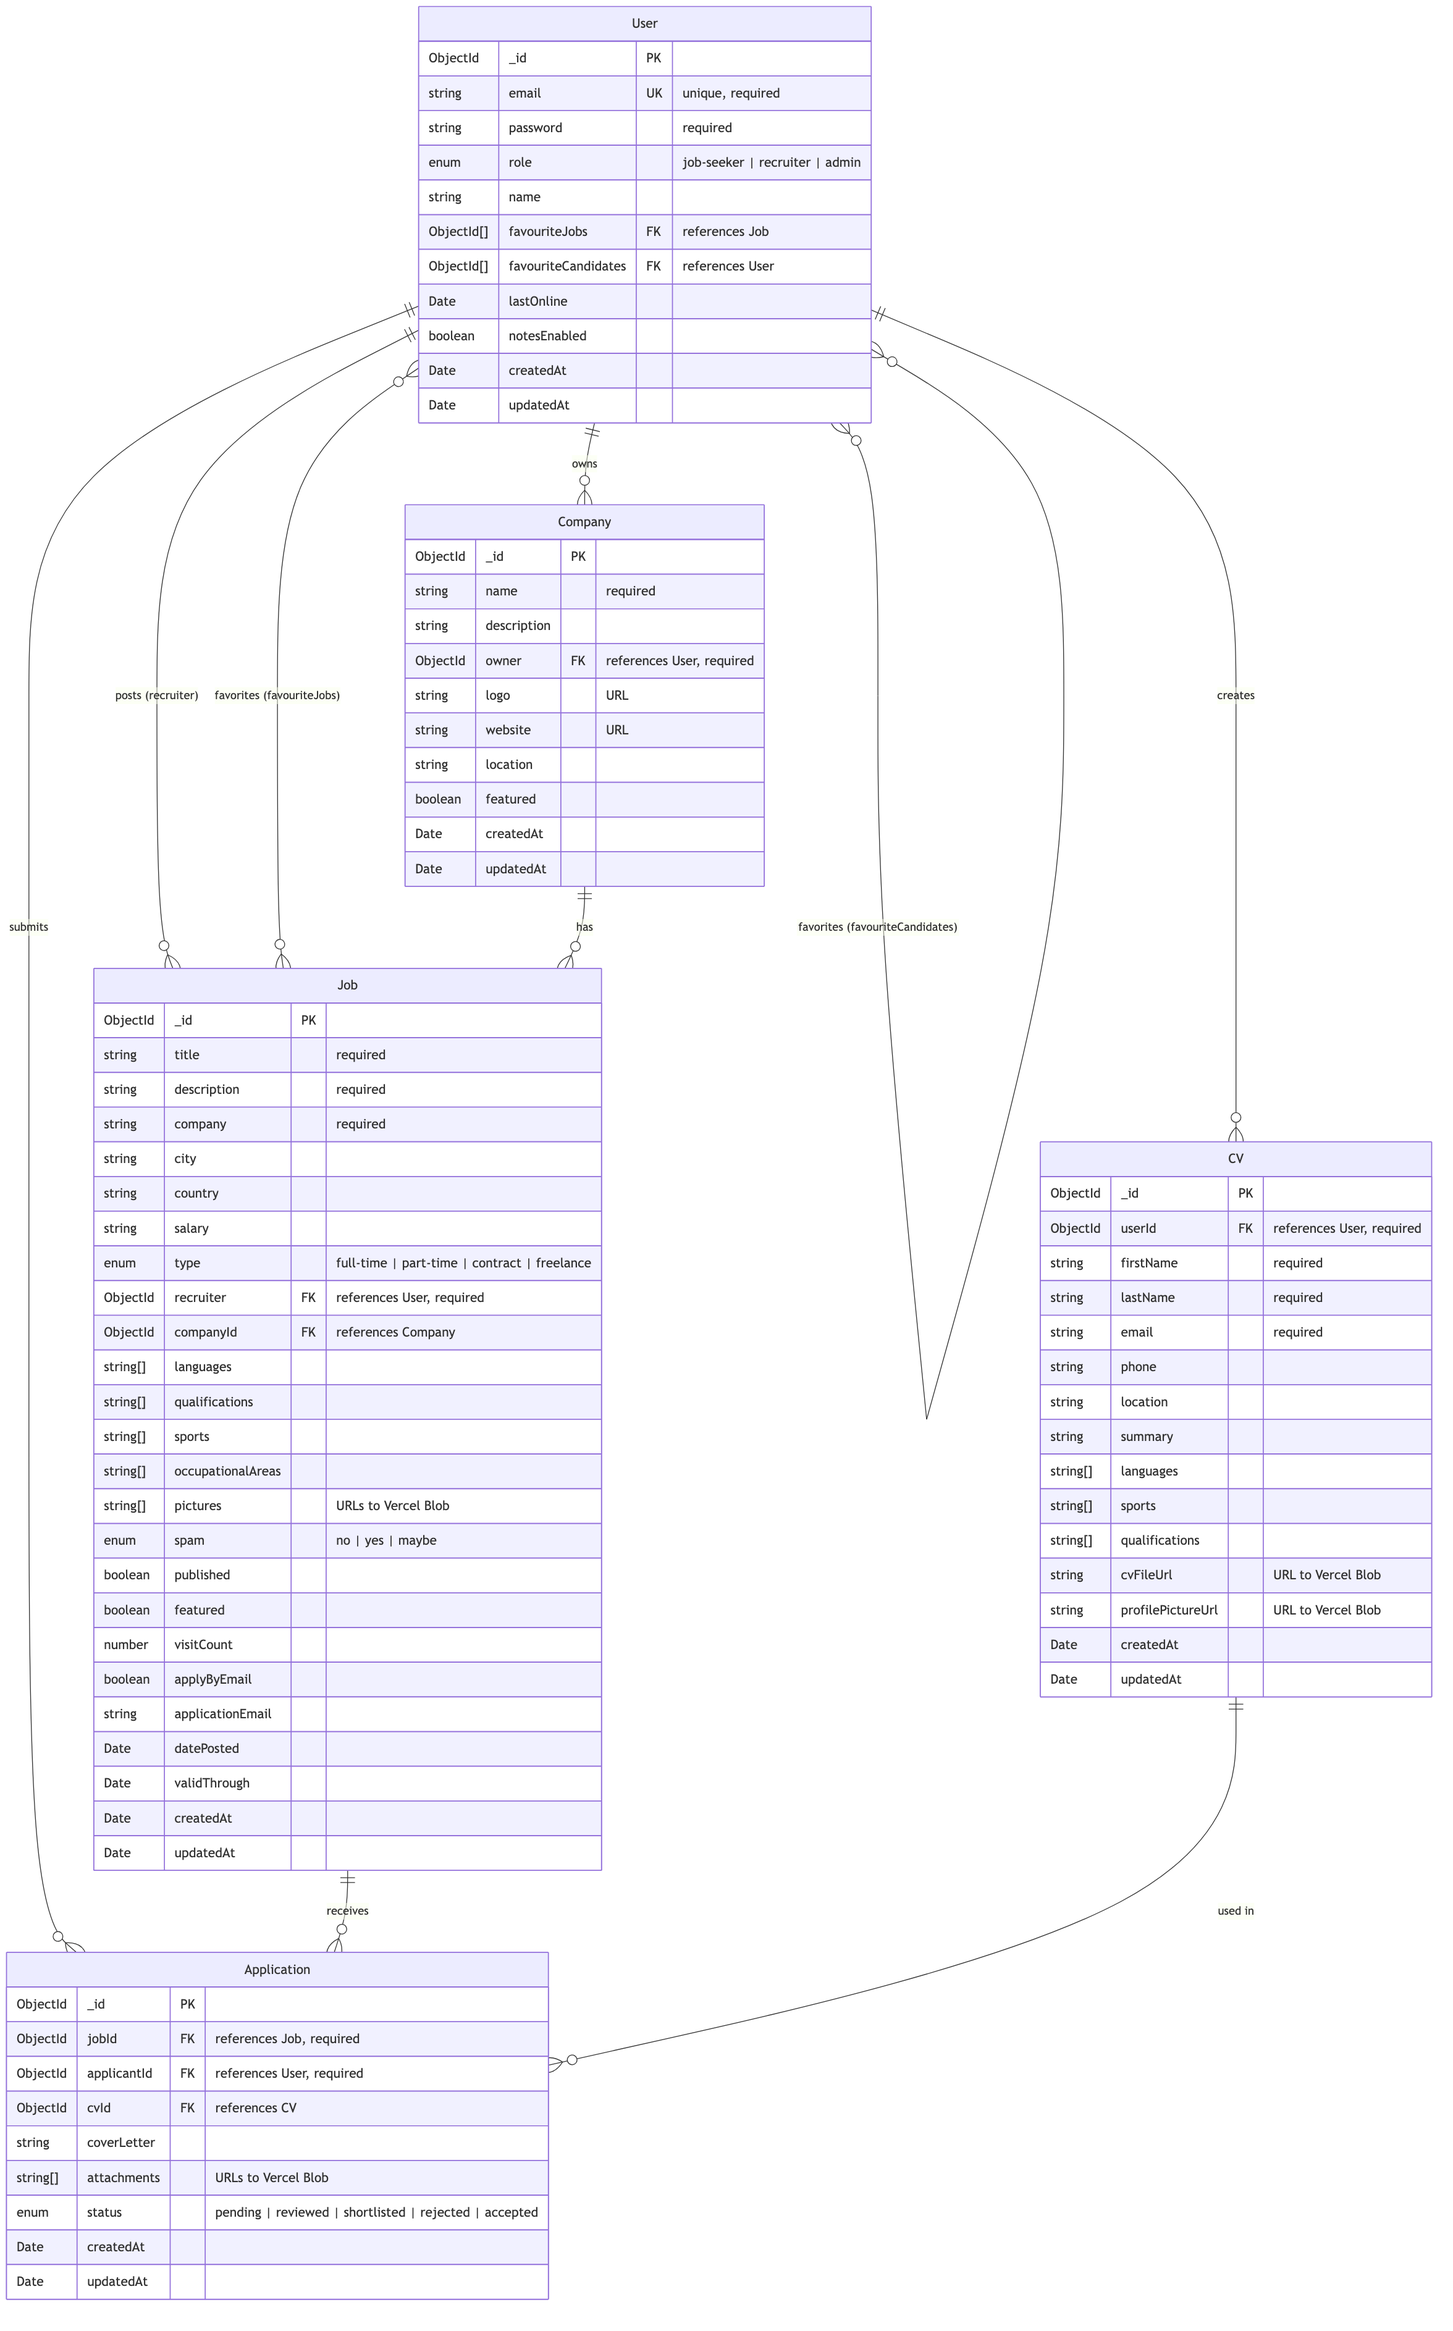
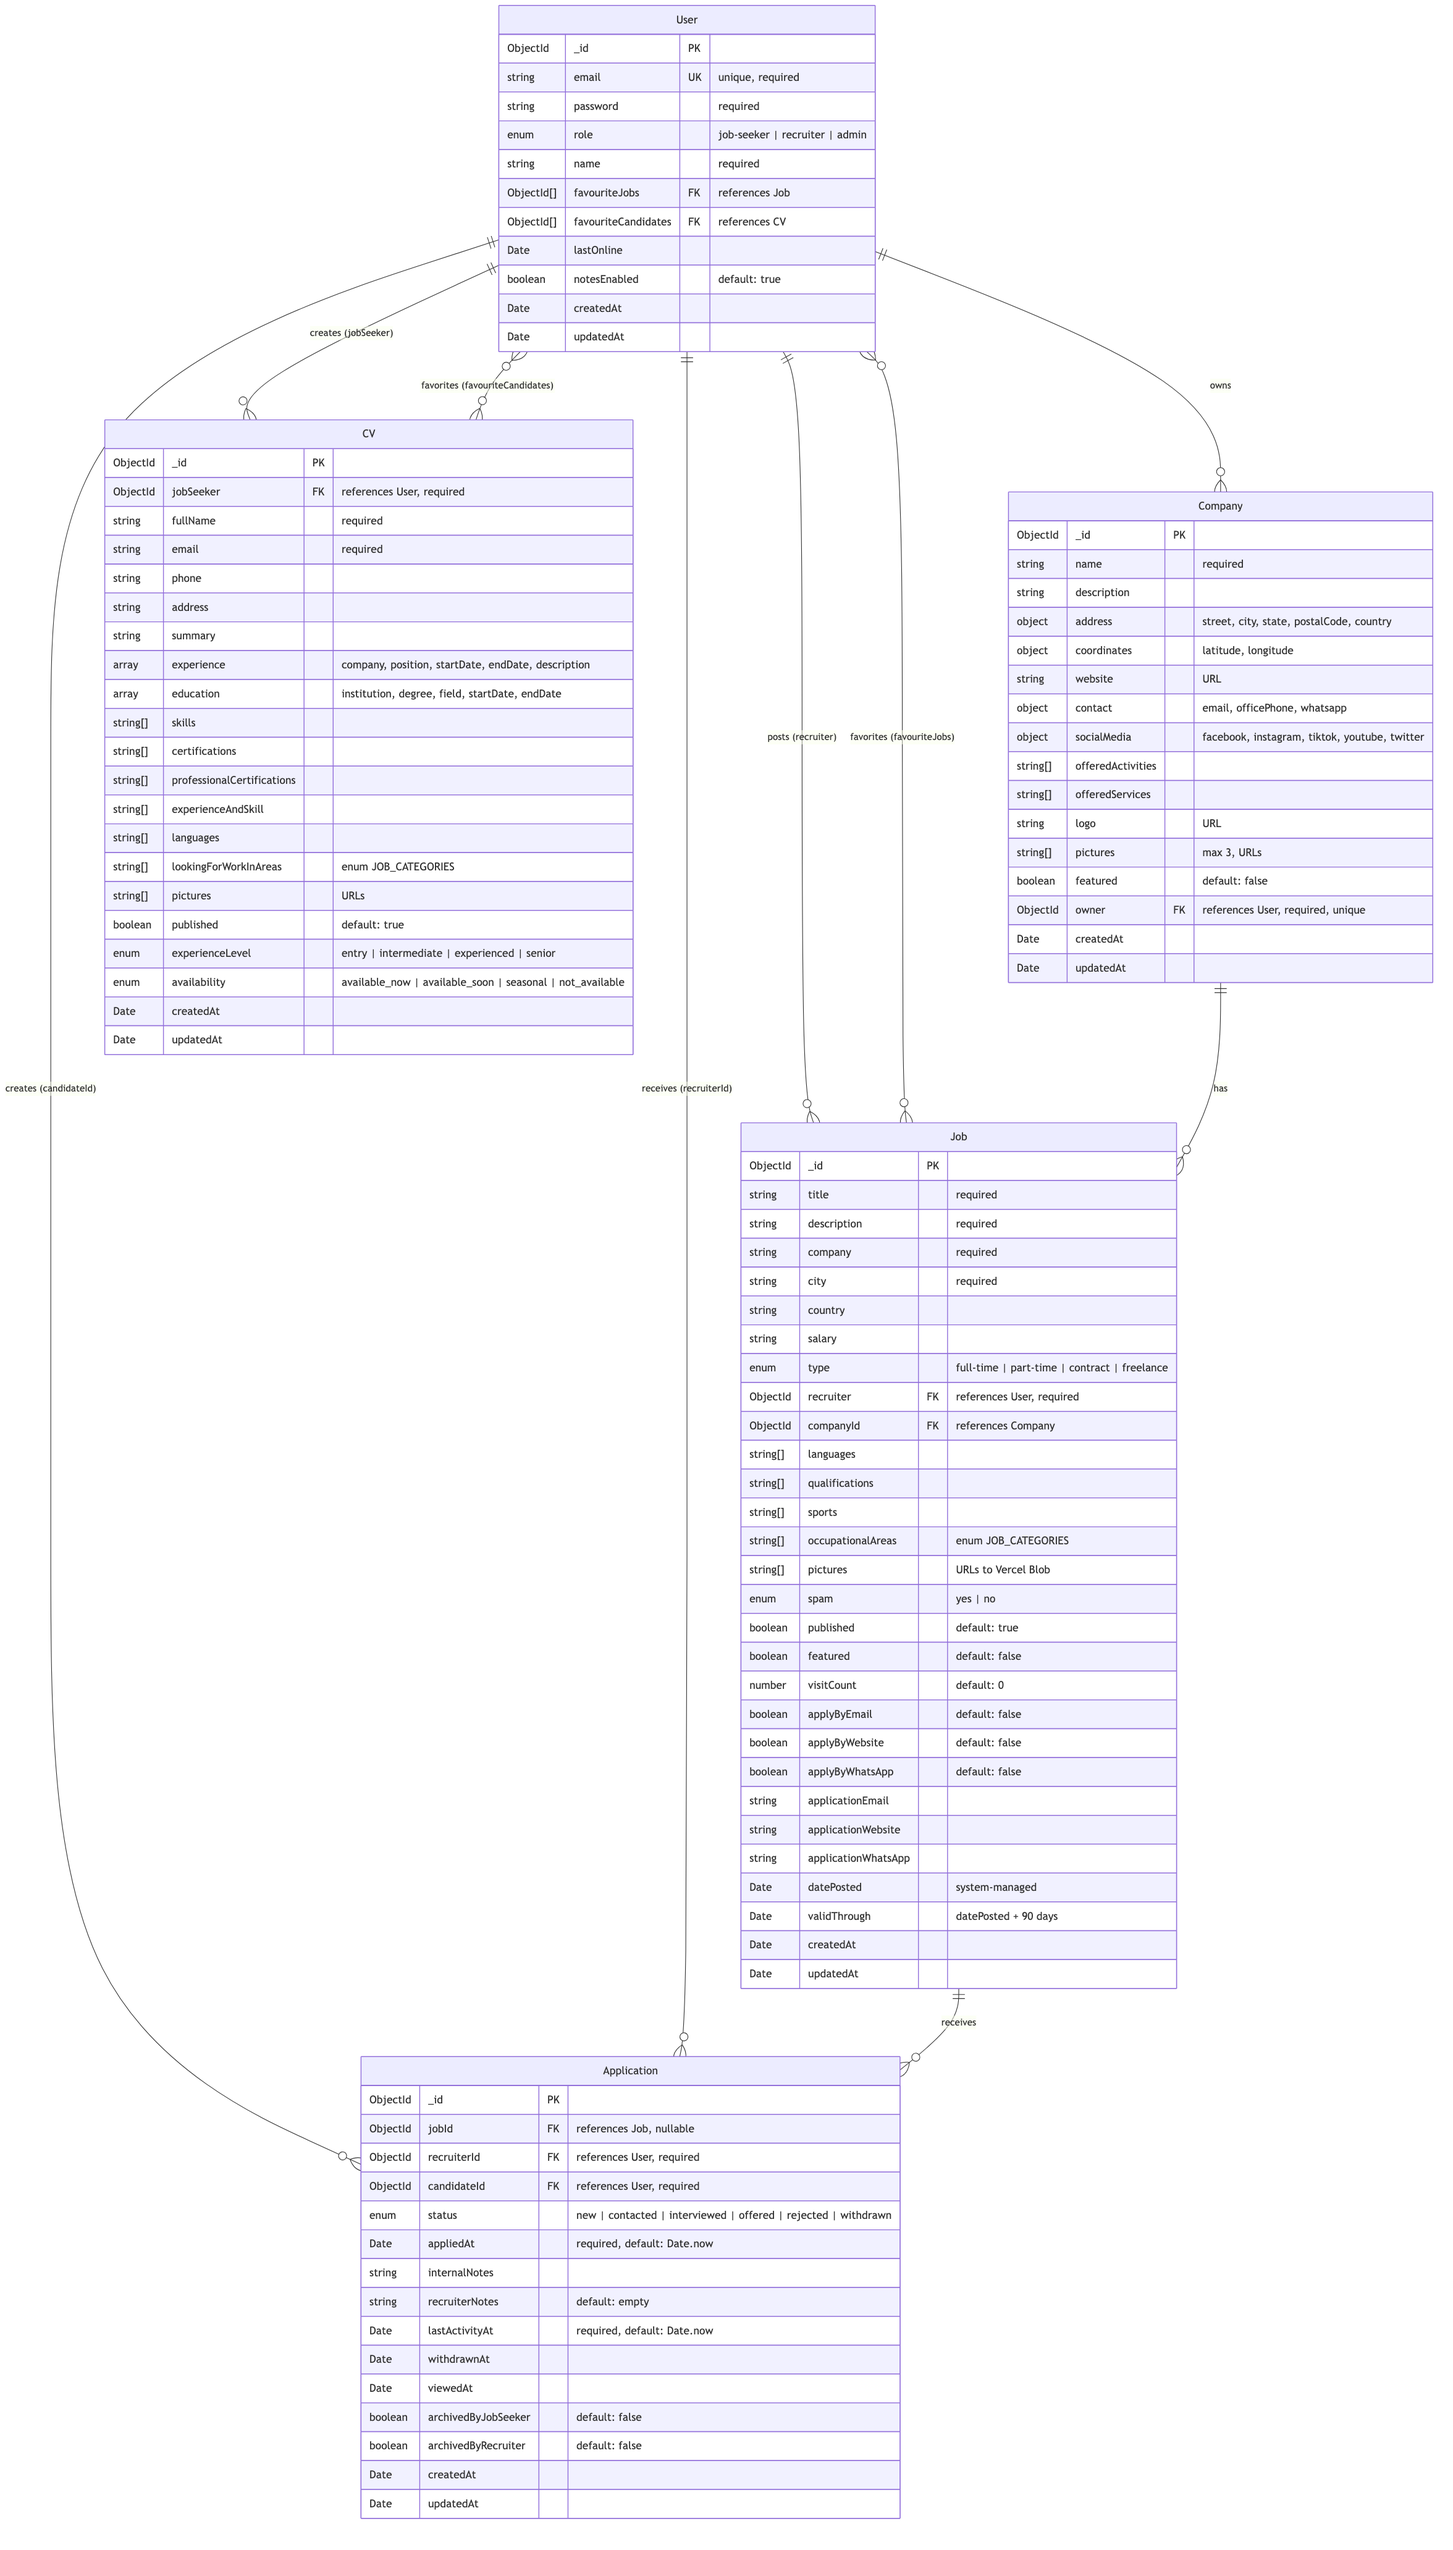
Fix ER diagram to match actual database models
- Corrected User.favouriteCandidates to reference CV not User
- Added all missing Job fields (applyByWebsite, applyByWhatsApp, etc)
- Fixed Company structure with nested objects (address, contact, socialMedia, coordinates)
- Corrected CV structure with jobSeeker FK, experience/education arrays, and all fields
- Fixed Application structure with recruiterId, candidateId, correct status enum
- Added proper relationship documentation
- Updated indexes to match actual implementation

diff --git a/migration/er-diagram.md b/migration/er-diagram.md
@@ -6,27 +6,26 @@
 erDiagram
     User ||--o{ Job : "posts (recruiter)"
     User ||--o{ Company : "owns"
-    User ||--o{ CV : "creates"
-    User ||--o{ Application : "submits"
+    User ||--o{ CV : "creates (jobSeeker)"
+    User ||--o{ Application : "creates (candidateId)"
+    User ||--o{ Application : "receives (recruiterId)"
     User }o--o{ Job : "favorites (favouriteJobs)"
-    User }o--o{ User : "favorites (favouriteCandidates)"
+    User }o--o{ CV : "favorites (favouriteCandidates)"
 
     Company ||--o{ Job : "has"
 
     Job ||--o{ Application : "receives"
-
-    CV ||--o{ Application : "used in"
 
     User {
         ObjectId _id PK
         string email UK "unique, required"
         string password "required"
         enum role "job-seeker | recruiter | admin"
-        string name
+        string name "required"
         ObjectId[] favouriteJobs FK "references Job"
-        ObjectId[] favouriteCandidates FK "references User"
+        ObjectId[] favouriteCandidates FK "references CV"
         Date lastOnline
-        boolean notesEnabled
+        boolean notesEnabled "default: true"
         Date createdAt
         Date updatedAt
     }
@@ -35,11 +34,17 @@ erDiagram
         ObjectId _id PK
         string name "required"
         string description
-        ObjectId owner FK "references User, required"
-        string logo "URL"
+        object address "street, city, state, postalCode, country"
+        object coordinates "latitude, longitude"
         string website "URL"
-        string location
-        boolean featured
+        object contact "email, officePhone, whatsapp"
+        object socialMedia "facebook, instagram, tiktok, youtube, twitter"
+        string[] offeredActivities
+        string[] offeredServices
+        string logo "URL"
+        string[] pictures "max 3, URLs"
+        boolean featured "default: false"
+        ObjectId owner FK "references User, required, unique"
         Date createdAt
         Date updatedAt
     }
@@ -49,7 +54,7 @@ erDiagram
         string title "required"
         string description "required"
         string company "required"
-        string city
+        string city "required"
         string country
         string salary
         enum type "full-time | part-time | contract | freelance"
@@ -58,46 +63,62 @@ erDiagram
         string[] languages
         string[] qualifications
         string[] sports
-        string[] occupationalAreas
+        string[] occupationalAreas "enum JOB_CATEGORIES"
         string[] pictures "URLs to Vercel Blob"
-        enum spam "no | yes | maybe"
-        boolean published
-        boolean featured
-        number visitCount
-        boolean applyByEmail
+        enum spam "yes | no"
+        boolean published "default: true"
+        boolean featured "default: false"
+        number visitCount "default: 0"
+        boolean applyByEmail "default: false"
+        boolean applyByWebsite "default: false"
+        boolean applyByWhatsApp "default: false"
         string applicationEmail
-        Date datePosted
-        Date validThrough
+        string applicationWebsite
+        string applicationWhatsApp
+        Date datePosted "system-managed"
+        Date validThrough "datePosted + 90 days"
         Date createdAt
         Date updatedAt
     }
 
     CV {
         ObjectId _id PK
-        ObjectId userId FK "references User, required"
-        string firstName "required"
-        string lastName "required"
+        ObjectId jobSeeker FK "references User, required"
+        string fullName "required"
         string email "required"
         string phone
-        string location
+        string address
         string summary
+        array experience "company, position, startDate, endDate, description"
+        array education "institution, degree, field, startDate, endDate"
+        string[] skills
+        string[] certifications
+        string[] professionalCertifications
+        string[] experienceAndSkill
         string[] languages
-        string[] sports
-        string[] qualifications
-        string cvFileUrl "URL to Vercel Blob"
-        string profilePictureUrl "URL to Vercel Blob"
+        string[] lookingForWorkInAreas "enum JOB_CATEGORIES"
+        string[] pictures "URLs"
+        boolean published "default: true"
+        enum experienceLevel "entry | intermediate | experienced | senior"
+        enum availability "available_now | available_soon | seasonal | not_available"
         Date createdAt
         Date updatedAt
     }
 
     Application {
         ObjectId _id PK
-        ObjectId jobId FK "references Job, required"
-        ObjectId applicantId FK "references User, required"
-        ObjectId cvId FK "references CV"
-        string coverLetter
-        string[] attachments "URLs to Vercel Blob"
-        enum status "pending | reviewed | shortlisted | rejected | accepted"
+        ObjectId jobId FK "references Job, nullable"
+        ObjectId recruiterId FK "references User, required"
+        ObjectId candidateId FK "references User, required"
+        enum status "new | contacted | interviewed | offered | rejected | withdrawn"
+        Date appliedAt "required, default: Date.now"
+        string internalNotes
+        string recruiterNotes "default: empty"
+        Date lastActivityAt "required, default: Date.now"
+        Date withdrawnAt
+        Date viewedAt
+        boolean archivedByJobSeeker "default: false"
+        boolean archivedByRecruiter "default: false"
         Date createdAt
         Date updatedAt
     }
@@ -111,24 +132,28 @@ erDiagram
   - Field: `Job.recruiter` references `User._id`
 
 - **User → Company (as owner)**: One-to-Many
-  - A user can own multiple companies
-  - Field: `Company.owner` references `User._id`
+  - A user can own one company (unique constraint)
+  - Field: `Company.owner` references `User._id` (unique)
 
-- **User → CV**: One-to-Many
+- **User → CV (as jobSeeker)**: One-to-Many
   - A job-seeker user can create multiple CVs
-  - Field: `CV.userId` references `User._id`
+  - Field: `CV.jobSeeker` references `User._id`
 
-- **User → Application**: One-to-Many
+- **User → Application (as candidate)**: One-to-Many
   - A user can submit multiple applications
-  - Field: `Application.applicantId` references `User._id`
+  - Field: `Application.candidateId` references `User._id`
+
+- **User → Application (as recruiter)**: One-to-Many
+  - A recruiter can receive multiple applications
+  - Field: `Application.recruiterId` references `User._id`
 
 - **User ↔ Job (favorites)**: Many-to-Many
   - Users can favorite multiple jobs
   - Field: `User.favouriteJobs` is an array of `Job._id`
 
-- **User ↔ User (favorites)**: Many-to-Many (self-referencing)
-  - Recruiters can favorite multiple candidates
-  - Field: `User.favouriteCandidates` is an array of `User._id`
+- **User ↔ CV (favorites)**: Many-to-Many
+  - Recruiters can favorite multiple candidates (CVs)
+  - Field: `User.favouriteCandidates` is an array of `CV._id`
 
 ### Company Relationships
 - **Company → Job**: One-to-Many
@@ -139,11 +164,7 @@ erDiagram
 - **Job → Application**: One-to-Many
   - A job can receive multiple applications
   - Field: `Application.jobId` references `Job._id`
-
-### CV Relationships
-- **CV → Application**: One-to-Many
-  - A CV can be used in multiple applications
-  - Field: `Application.cvId` references `CV._id`
+  - Note: jobId can be null (direct contact without job posting)
 
 ## Key Design Patterns
 
@@ -154,46 +175,80 @@ erDiagram
 ### 2. **File Storage**
 - All files (images, CVs, attachments) are stored in Vercel Blob
 - Only URLs are stored in MongoDB
-- Images are preprocessed (resized to 800px, compressed to <100KB)
+- Job images are preprocessed (resized to 800px, compressed to <100KB)
 
 ### 3. **Soft Relationships**
 - Job can have both `company` (string) and `companyId` (ObjectId)
 - This allows jobs without a formal Company entity
 - Useful for migrated data where company entities don't exist
 
-### 4. **Status Tracking**
-- Applications have status enum for workflow management
-- Jobs have spam detection enum (no/yes/maybe)
-- Jobs have published flag for draft/live state
+### 4. **Application Types**
+- Applications can be job-specific (`jobId` set) or direct recruiter contacts (`jobId` is null)
+- Unique constraint on `recruiterId + candidateId` prevents duplicate contacts
+- Unique constraint on `jobId + candidateId` prevents duplicate job applications (sparse index)
 
-### 5. **Metadata**
+### 5. **Status Tracking**
+- Applications have comprehensive status enum for workflow management
+- Jobs have spam detection enum (yes/no)
+- Jobs have published flag for draft/live state
+- CVs have published flag for visibility control
+
+### 6. **Application Methods**
+- Jobs support three application methods: Email, Website, WhatsApp
+- Each method has a boolean flag and associated contact field
+- Allows flexible application workflows
+
+### 7. **Metadata & Activity Tracking**
 - All entities have `createdAt` and `updatedAt` timestamps
 - Jobs track `visitCount` for analytics
+- Jobs have system-managed `datePosted` and `validThrough` for Google Jobs SEO
 - Users track `lastOnline` for activity monitoring
+- Applications track `lastActivityAt`, `viewedAt`, `withdrawnAt`
 
-## Indexes (Recommended)
+### 8. **Archiving System**
+- Applications can be archived by both job-seekers and recruiters independently
+- Allows soft deletion without losing data
+
+## Indexes (Implemented)
 
 ```javascript
 // User
 User.index({ email: 1 }, { unique: true })
 User.index({ role: 1 })
+User.index({ createdAt: -1 })
+User.index({ lastOnline: -1 })
 
 // Job
+Job.index({ createdAt: -1 })
+Job.index({ updatedAt: -1 })
+Job.index({ published: 1, createdAt: -1 })
+Job.index({ featured: 1, published: 1 })
 Job.index({ recruiter: 1 })
 Job.index({ companyId: 1 })
-Job.index({ published: 1, datePosted: -1 })
-Job.index({ country: 1, city: 1 })
+Job.index({ country: 1 })
+Job.index({ city: 1 })
+Job.index({ type: 1 })
 
 // Company
-Company.index({ owner: 1 })
+Company.index({ owner: 1 }, { unique: true })
+Company.index({ featured: 1 })
+Company.index({ createdAt: -1 })
 
 // CV
-CV.index({ userId: 1 })
+CV.index({ createdAt: -1 })
+CV.index({ published: 1, createdAt: -1 })
+CV.index({ jobSeeker: 1 })
+CV.index({ experienceLevel: 1 })
+CV.index({ availability: 1 })
 
 // Application
-Application.index({ jobId: 1 })
-Application.index({ applicantId: 1 })
-Application.index({ status: 1 })
+Application.index({ jobId: 1, candidateId: 1 }, { unique: true, sparse: true })
+Application.index({ recruiterId: 1, candidateId: 1 }, { unique: true })
+Application.index({ recruiterId: 1, status: 1 })
+Application.index({ candidateId: 1 })
+Application.index({ jobId: 1 }, { sparse: true })
+Application.index({ status: 1, appliedAt: -1 })
+Application.index({ lastActivityAt: -1 })
 ```
 
 ## Data Statistics (Current)
